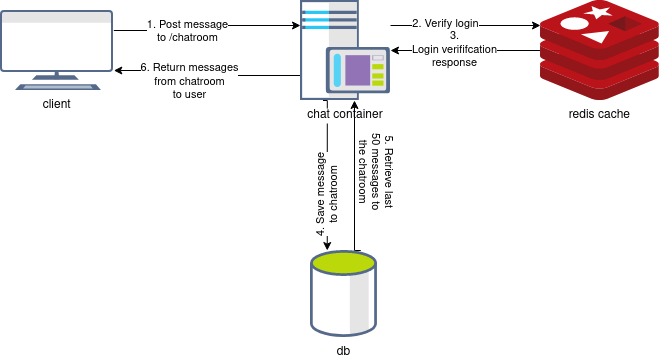
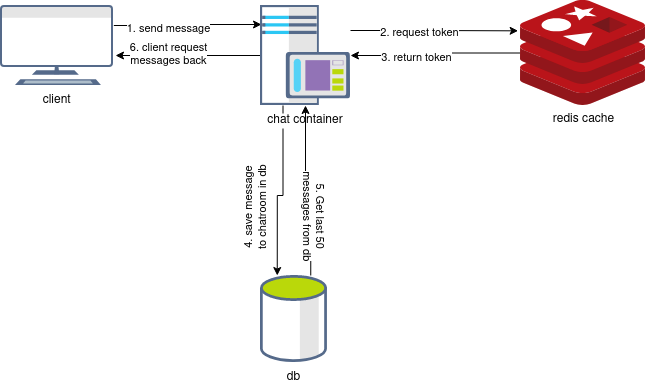
Separate HTML and JS, add flow images to README

Changed region(s): [[0.0, 0.0, 1.0, 0.3361], [0.3715, 0.3667, 0.6192, 1.0]]

diff --git a/static/login.html b/static/login.html
@@ -37,121 +37,5 @@
     </div>
 
 
-    <script>
-        var sessionId = '',
-            token = '',
-            x = '';
-
-        const baseURL = 'http://127.0.0.1:8000/v1';
-
-        function json(response) {
-            x = response;
-            return response.json();
-        }
-
-
-        var runlogin = async function() {
-            let username = document.getElementById('username').value,
-                password = document.getElementById('password').value,
-                url = `${baseURL}/login`;
-
-            const data = {"username": username, "password": password};
-
-            const response = await fetch(url, {
-                method: 'POST',
-                headers: {
-                    'Content-Type': 'application/json'
-                },
-                body: JSON.stringify(data)
-            });
-
-            response.json().then(loginData => {
-                sessionId = loginData.session_id;
-                token = loginData.token;
-                showAvailableChatrooms();
-            });
-        };
-
-        var refreshChatroomMessages = async function() {
-            let chatroomId = document.getElementById('chatroomId').innerText,
-                username = document.getElementById('username').value,
-                url = `${baseURL}/chatroom/${chatroomId}`;
-
-            let chatroomMessages = document.getElementById('messages');
-
-            chatroomMessages.innerHTML = '';
-
-            const response = await fetch(url, {
-                method: 'GET',
-                headers: {
-                    'X-Token': token,
-                    'X-User': username,
-                    'X-SessionId': sessionId
-                }
-            });
-
-            response.json().then(responseData => {
-                for(message of responseData) {
-                    var node = document.createElement('div');
-                    node.innerText = message.text;
-                    chatroomMessages.appendChild(node);
-                }
-            });
-        };
-
-        var sendMessageToChatroom = async function() {
-            let messageText = document.getElementById('postdiv').innerText;
-
-            let chatroomId = document.getElementById('chatroomId').innerText,
-                username = document.getElementById('username').value,
-                url = `${baseURL}/chatroom/${chatroomId}`;
-
-            const data = {'text': messageText};
-
-            const response = await fetch(url, {
-                method: 'POST',
-                headers: {
-                    'Content-Type': 'application/json',
-                    'X-Token': token,
-                    'X-User': username,
-                    'X-SessionId': sessionId
-                },
-                body: JSON.stringify(data)
-            });
-
-            await refreshChatroomMessages();
-        };
-
-        var showAvailableChatrooms = async function() {
-            let availableChatrooms = document.getElementById('availableChatrooms'),
-                username = document.getElementById('username').value,
-                url = `${baseURL}/chatroom`;
-
-            availableChatrooms.innerHTML = '';
-
-            const response = await fetch(url, {
-                method: 'GET',
-                headers: {
-                    'X-Token': token,
-                    'X-User': username,
-                    'X-SessionId': sessionId
-                }
-            });
-
-            response.json().then(responseData => {
-                for(message of responseData) {
-                    var node = document.createElement('div');
-                    node.innerText = message.uuid;
-                    node.onclick = function() {
-                        let chatroomId = document.getElementById('chatroomId');
-                        chatroomId.innerText = this.innerText;
-                        refreshChatroomMessages();
-                    };
-
-                    availableChatrooms.appendChild(node);
-                }
-            });
-        };
-
-    </script>
+    <script src="scripts.js"></script>
 </html>

diff --git a/static/scripts.js b/static/scripts.js
@@ -1,0 +1,113 @@
+var sessionId = '',
+    token = '',
+    x = '';
+
+const baseURL = 'http://127.0.0.1:8000/v1';
+
+function json(response) {
+    x = response;
+    return response.json();
+}
+
+var runlogin = async function() {
+    let username = document.getElementById('username').value,
+        password = document.getElementById('password').value,
+        url = `${baseURL}/login`;
+
+    const data = {"username": username, "password": password};
+
+    const response = await fetch(url, {
+        method: 'POST',
+        headers: {
+            'Content-Type': 'application/json'
+        },
+        body: JSON.stringify(data)
+    });
+
+    response.json().then(loginData => {
+        sessionId = loginData.session_id;
+        token = loginData.token;
+        showAvailableChatrooms();
+    });
+};
+
+var refreshChatroomMessages = async function() {
+    let chatroomId = document.getElementById('chatroomId').innerText,
+        username = document.getElementById('username').value,
+        url = `${baseURL}/chatroom/${chatroomId}`;
+
+    let chatroomMessages = document.getElementById('messages');
+
+    chatroomMessages.innerHTML = '';
+
+    const response = await fetch(url, {
+        method: 'GET',
+        headers: {
+            'X-Token': token,
+            'X-User': username,
+            'X-SessionId': sessionId
+        }
+    });
+
+    response.json().then(responseData => {
+        for(message of responseData) {
+            var node = document.createElement('div');
+            node.innerText = message.text;
+            chatroomMessages.appendChild(node);
+        }
+    });
+};
+
+var sendMessageToChatroom = async function() {
+    let messageText = document.getElementById('postdiv').innerText;
+
+    let chatroomId = document.getElementById('chatroomId').innerText,
+        username = document.getElementById('username').value,
+        url = `${baseURL}/chatroom/${chatroomId}`;
+
+    const data = {'text': messageText};
+
+    const response = await fetch(url, {
+        method: 'POST',
+        headers: {
+            'Content-Type': 'application/json',
+            'X-Token': token,
+            'X-User': username,
+            'X-SessionId': sessionId
+        },
+        body: JSON.stringify(data)
+    });
+
+    await refreshChatroomMessages();
+};
+
+var showAvailableChatrooms = async function() {
+    let availableChatrooms = document.getElementById('availableChatrooms'),
+        username = document.getElementById('username').value,
+        url = `${baseURL}/chatroom`;
+
+    availableChatrooms.innerHTML = '';
+
+    const response = await fetch(url, {
+        method: 'GET',
+        headers: {
+            'X-Token': token,
+            'X-User': username,
+            'X-SessionId': sessionId
+        }
+    });
+
+    response.json().then(responseData => {
+        for(message of responseData) {
+            var node = document.createElement('div');
+            node.innerText = message.uuid;
+            node.onclick = function() {
+                let chatroomId = document.getElementById('chatroomId');
+                chatroomId.innerText = this.innerText;
+                refreshChatroomMessages();
+            };
+
+            availableChatrooms.appendChild(node);
+        }
+    });
+};

diff --git a/README.md b/README.md
@@ -65,9 +65,12 @@ Other than the containers the other components that are present are a sqlite dat
 
 #### Message
 
-![Message flow](https://github.com/ghapereira/pychat-stock/blob/main/static/login_flow.png)
+![Message flow](https://github.com/ghapereira/pychat-stock/blob/main/static/message_flow.png)
 
 #### Stock message
+
+![Stock message flow](https://github.com/ghapereira/pychat-stock/blob/main/static/message_bot_flow.png)
+
 
 ### Architectural considerations
 
@@ -107,4 +110,4 @@ As of v1.4:
 
 * Adding automated tests
 
-* Handling more complex errors: everything here is in respect of the "happy path". For instance, one such error is trying to create a user with a username that is already taken. Server will incur in an Error 500.
+* Handling more complex errors: everything here is in respect of the "happy path".
